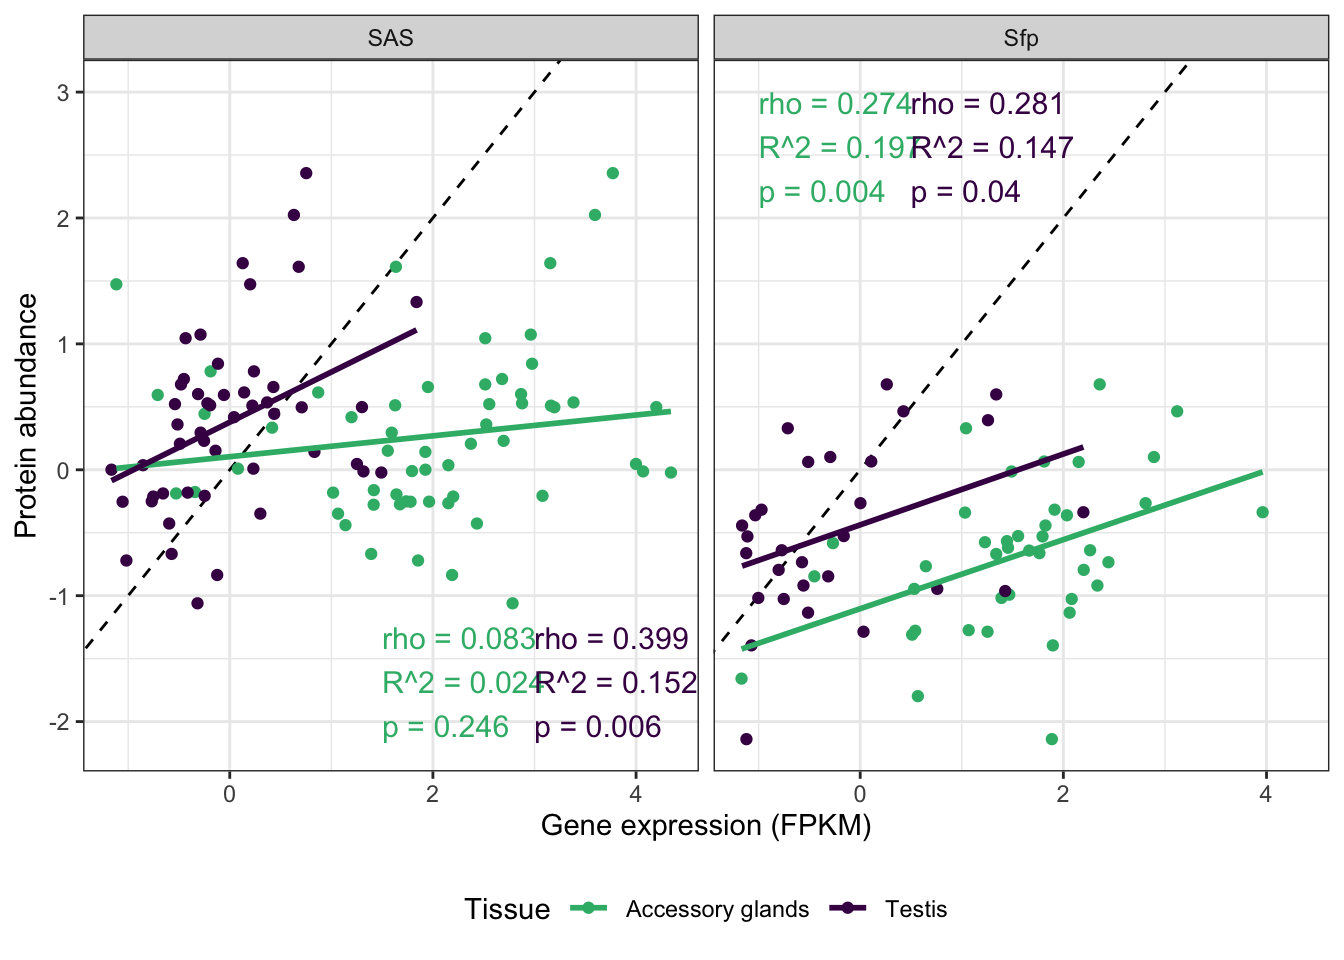
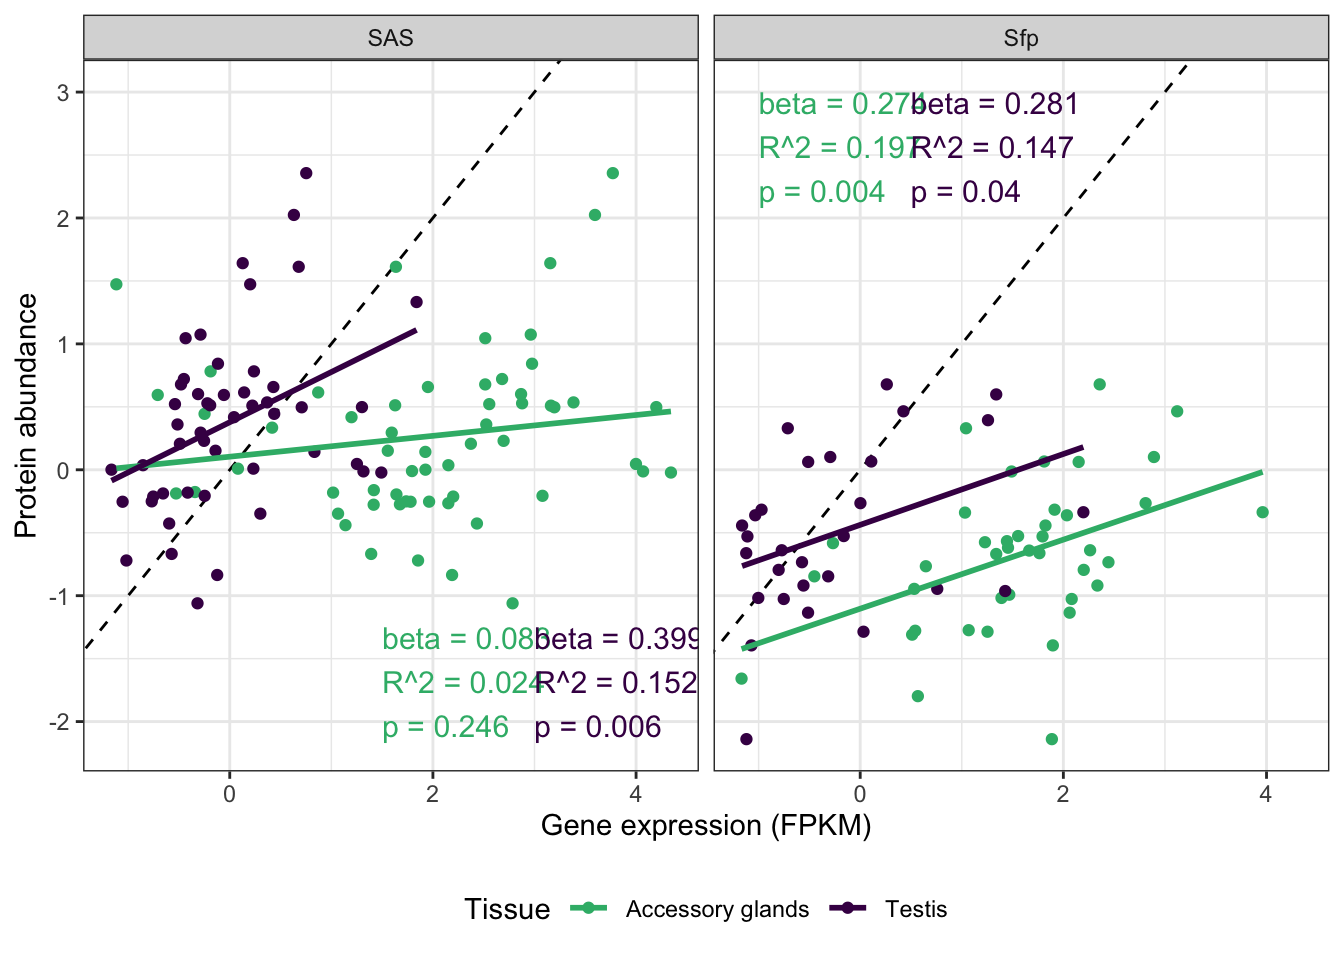
Build site.

Changed region(s): [[0.5625, 0.0938, 0.8125, 0.125], [0.2812, 0.6562, 0.5312, 0.6875]]

diff --git a/docs/statistical_analysis.html b/docs/statistical_analysis.html
@@ -417,7 +417,7 @@ div.tocify {
 <div class="tab-content">
 <div id="summary" class="tab-pane fade in active">
 <p>
-<strong>Last updated:</strong> 2022-02-10
+<strong>Last updated:</strong> 2022-02-11
 </p>
 <p>
 <strong>Checks:</strong> <span class="glyphicon glyphicon-ok text-success" aria-hidden="true"></span> 7 <span class="glyphicon glyphicon-exclamation-sign text-danger" aria-hidden="true"></span> 0
@@ -508,16 +508,16 @@ This reproducible <a href="http://rmarkdown.rstudio.com">R Markdown</a> analysis
 <div class="panel panel-default">
 <div class="panel-heading">
 <p class="panel-title">
-<a data-toggle="collapse" data-parent="#workflowr-checks" href="#strongRepositoryversionstrongahrefhttpsgithubcomMartinGarlovskyDmSP3tree8e0c73045fe75eb50cfa8ef2c27c03f6b7b4d24btargetblank8e0c730a"> <span class="glyphicon glyphicon-ok text-success" aria-hidden="true"></span> <strong>Repository version:</strong> <a href="https://github.com/MartinGarlovsky/DmSP3/tree/8e0c73045fe75eb50cfa8ef2c27c03f6b7b4d24b" target="_blank">8e0c730</a> </a>
+<a data-toggle="collapse" data-parent="#workflowr-checks" href="#strongRepositoryversionstrongahrefhttpsgithubcomMartinGarlovskyDmSP3treed06f130d6d21179ab43b6887faecede3c9dc0da1targetblankd06f130a"> <span class="glyphicon glyphicon-ok text-success" aria-hidden="true"></span> <strong>Repository version:</strong> <a href="https://github.com/MartinGarlovsky/DmSP3/tree/d06f130d6d21179ab43b6887faecede3c9dc0da1" target="_blank">d06f130</a> </a>
 </p>
 </div>
[2 lines of base64/hex data omitted]
 <div class="panel-body">
 <p>
 Great! You are using Git for version control. Tracking code development and connecting the code version to the results is critical for reproducibility.
 </p>
 <p>
-The results in this page were generated with repository version <a href="https://github.com/MartinGarlovsky/DmSP3/tree/8e0c73045fe75eb50cfa8ef2c27c03f6b7b4d24b" target="_blank">8e0c730</a>. See the <em>Past versions</em> tab to see a history of the changes made to the R Markdown and HTML files.
+The results in this page were generated with repository version <a href="https://github.com/MartinGarlovsky/DmSP3/tree/d06f130d6d21179ab43b6887faecede3c9dc0da1" target="_blank">d06f130</a>. See the <em>Past versions</em> tab to see a history of the changes made to the R Markdown and HTML files.
 </p>
 <p>
 Note that you need to be careful to ensure that all relevant files for the analysis have been committed to Git prior to generating the results (you can use <code>wflow_publish</code> or <code>wflow_git_commit</code>). workflowr only checks the R Markdown file, but you know if there are other scripts or data files that it depends on. Below is the status of the Git repository when the results were generated:
@@ -528,23 +528,12 @@ Ignored files:
     Ignored:    .Rhistory
     Ignored:    .Rproj.user/
     Ignored:    data/.DS_Store
+    Ignored:    data/FlyAtlas2/.DS_Store
+    Ignored:    data/FlyBase/.DS_Store
     Ignored:    output/.DS_Store
 
 Untracked files:
     Untracked:  README.html
-    Untracked:  code/parse_PAML.R
-    Untracked:  data/040721_PBS_NaCl_1PeptideLFQ.csv
-    Untracked:  data/DmSP3_Xlinked_Ribosomes.xlsx
-    Untracked:  data/DmSPii_Supp.Table3.csv
-    Untracked:  data/FlyAtlas2/
-    Untracked:  data/FlyBase/
-    Untracked:  data/Fly_Proteomes_LumosFusion/
-    Untracked:  data/HaltNohaltPBST_uniprot.csv
-    Untracked:  data/Halt_NoHalt_PBST.xlsx
-    Untracked:  data/KB_10MSE_sperm_Edited.xlsx
-    Untracked:  data/dm6_ver78_age.csv
-    Untracked:  data/dmel_SFPs_wigby_etal2020.csv
-    Untracked:  data/oneratio_SWAMP.txt
     Untracked:  figures/
     Untracked:  output/DmSP_ribosomes.csv
     Untracked:  output/DmSP_which_proteome.csv
@@ -593,6 +582,40 @@ Message
 </tr>
 </thead>
 <tbody>
+<tr>
+<td>
+Rmd
+</td>
+<td>
+<a href="https://github.com/MartinGarlovsky/DmSP3/blob/d06f130d6d21179ab43b6887faecede3c9dc0da1/analysis/statistical_analysis.Rmd" target="_blank">d06f130</a>
+</td>
+<td>
+MartinGarlovsky
+</td>
+<td>
+2022-02-11
+</td>
+<td>
+tweak figs
+</td>
+</tr>
+<tr>
+<td>
+html
+</td>
+<td>
+<a href="https://rawcdn.githack.com/MartinGarlovsky/DmSP3/7fbba7e64859424b32b42bf9ab13fc9aba867002/docs/statistical_analysis.html" target="_blank">7fbba7e</a>
+</td>
+<td>
+MartinGarlovsky
+</td>
+<td>
+2022-02-10
+</td>
+<td>
+Build site.
+</td>
+</tr>
 <tr>
 <td>
 Rmd
@@ -1332,6 +1355,17 @@ Date
 <tbody>
 <tr>
 <td>
+<a href="https://github.com/MartinGarlovsky/DmSP3/blob/7fbba7e64859424b32b42bf9ab13fc9aba867002/docs/figure/statistical_analysis.Rmd/unnamed-chunk-9-1.png" target="_blank">7fbba7e</a>
+</td>
+<td>
+MartinGarlovsky
+</td>
+<td>
+2022-02-10
+</td>
+</tr>
+<tr>
+<td>
 <a href="https://github.com/MartinGarlovsky/DmSP3/blob/5b13fbc15787c20e47ccf83bc223aacfeb9e6db7/docs/figure/statistical_analysis.Rmd/unnamed-chunk-9-1.png" target="_blank">5b13fbc</a>
 </td>
 <td>
@@ -1573,6 +1607,17 @@ Date
 </tr>
 </thead>
 <tbody>
+<tr>
+<td>
+<a href="https://github.com/MartinGarlovsky/DmSP3/blob/7fbba7e64859424b32b42bf9ab13fc9aba867002/docs/figure/statistical_analysis.Rmd/unnamed-chunk-12-1.png" target="_blank">7fbba7e</a>
+</td>
+<td>
+MartinGarlovsky
+</td>
+<td>
+2022-02-10
+</td>
+</tr>
 <tr>
 <td>
 <a href="https://github.com/MartinGarlovsky/DmSP3/blob/5b13fbc15787c20e47ccf83bc223aacfeb9e6db7/docs/figure/statistical_analysis.Rmd/unnamed-chunk-12-1.png" target="_blank">5b13fbc</a>
@@ -6741,7 +6786,7 @@ cor_prot_expr &lt;- scaled_dat %&gt;%
         axis.title.x = element_blank()) +
   geom_text(data = all_cor,
              aes(x = 2, y = -1, 
-                 label = paste0(&#39;rho = &#39;, round(estimate, 3), 
+                 label = paste0(&#39;beta = &#39;, round(estimate, 3), 
                                 &#39;\nR^2 = &#39;, round(r.squared, 3), 
                                 &#39;\np &#39;, p.value)),
              hjust = &#39;left&#39;, vjust = 1, size = 3) + 
@@ -7118,7 +7163,7 @@ Testis
   theme(legend.position = &#39;&#39;) +
   geom_text(data = sfp_cor,
              aes(x = 2, y = -1, 
-                 label = paste0(&#39;rho = &#39;, round(estimate, 3), 
+                 label = paste0(&#39;beta = &#39;, round(estimate, 3), 
                                 &#39;\nR^2 = &#39;, round(r.squared, 3), 
                                 &#39;\np &#39;, p.value)),
              hjust = &#39;left&#39;, vjust = 1, size = 3) + 
@@ -7180,7 +7225,7 @@ MartinGarlovsky
   theme(legend.position = &#39;bottom&#39;) +
   geom_text(data = sfp_cor %&gt;% filter(Tissue == &#39;Accessory glands&#39; | Tissue == &#39;Testis&#39;),
              aes(x = c(1.5, 3, -1, 0.5), y = c(-1.25, -1.25, 3, 3), 
-                 label = paste0(&#39;rho = &#39;, round(estimate, 3), 
+                 label = paste0(&#39;beta = &#39;, round(estimate, 3), 
                                 &#39;\nR^2 = &#39;, round(r.squared, 3), 
                                 &#39;\np = &#39;, p.value)),
              hjust = &#39;left&#39;, vjust = 1, size = 4, show.legend = FALSE) + 
@@ -7523,6 +7568,17 @@ Date
 </tr>
 </thead>
 <tbody>
+<tr>
+<td>
+<a href="https://github.com/MartinGarlovsky/DmSP3/blob/7fbba7e64859424b32b42bf9ab13fc9aba867002/docs/figure/statistical_analysis.Rmd/unnamed-chunk-89-1.png" target="_blank">7fbba7e</a>
+</td>
+<td>
+MartinGarlovsky
+</td>
+<td>
+2022-02-10
+</td>
+</tr>
 <tr>
 <td>
 <a href="https://github.com/MartinGarlovsky/DmSP3/blob/3ce1c47a48de012c7883d568131a50529ecd5316/docs/figure/statistical_analysis.Rmd/unnamed-chunk-89-1.png" target="_blank">3ce1c47</a>
@@ -7951,6 +8007,17 @@ Date
 <tbody>
 <tr>
 <td>
+<a href="https://github.com/MartinGarlovsky/DmSP3/blob/7fbba7e64859424b32b42bf9ab13fc9aba867002/docs/figure/statistical_analysis.Rmd/unnamed-chunk-96-1.png" target="_blank">7fbba7e</a>
+</td>
+<td>
+MartinGarlovsky
+</td>
+<td>
+2022-02-10
+</td>
+</tr>
+<tr>
+<td>
 <a href="https://github.com/MartinGarlovsky/DmSP3/blob/3ce1c47a48de012c7883d568131a50529ecd5316/docs/figure/statistical_analysis.Rmd/unnamed-chunk-96-1.png" target="_blank">3ce1c47</a>
 </td>
 <td>
@@ -8007,6 +8074,17 @@ Date
 </tr>
 </thead>
 <tbody>
+<tr>
+<td>
+<a href="https://github.com/MartinGarlovsky/DmSP3/blob/7fbba7e64859424b32b42bf9ab13fc9aba867002/docs/figure/statistical_analysis.Rmd/unnamed-chunk-97-1.png" target="_blank">7fbba7e</a>
+</td>
+<td>
+MartinGarlovsky
+</td>
+<td>
+2022-02-10
+</td>
+</tr>
 <tr>
 <td>
 <a href="https://github.com/MartinGarlovsky/DmSP3/blob/3ce1c47a48de012c7883d568131a50529ecd5316/docs/figure/statistical_analysis.Rmd/unnamed-chunk-97-1.png" target="_blank">3ce1c47</a>
